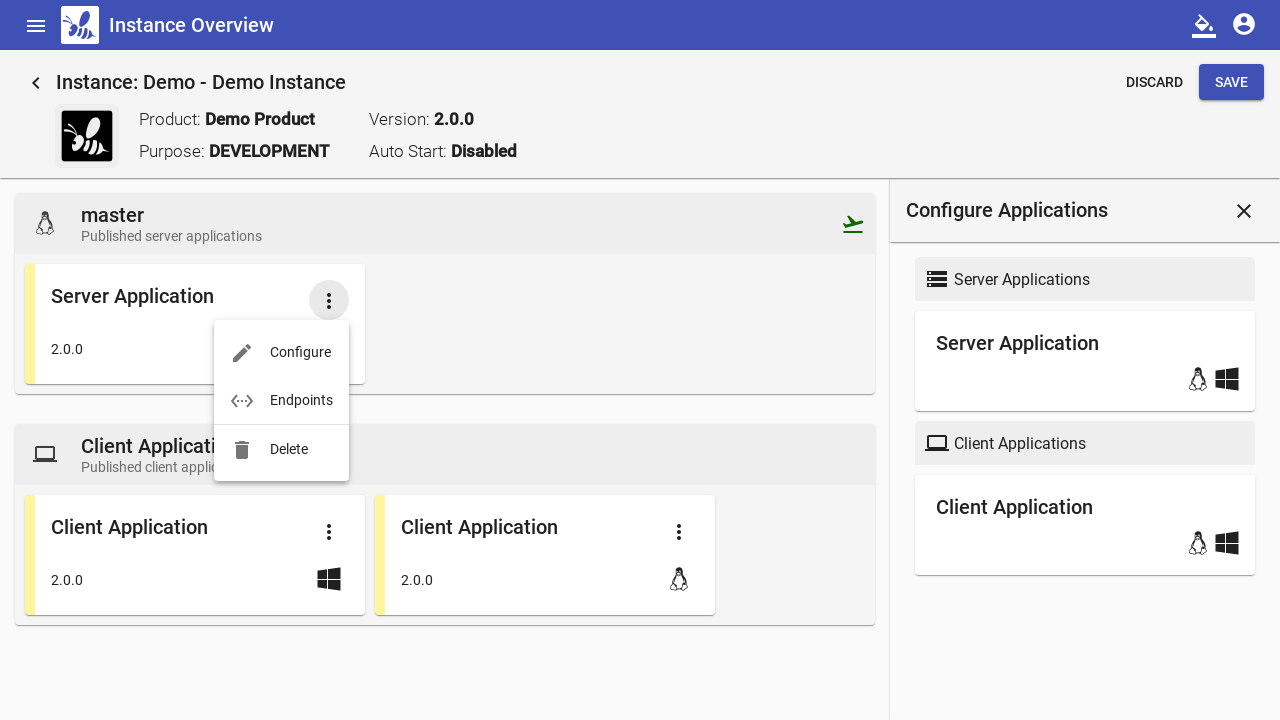
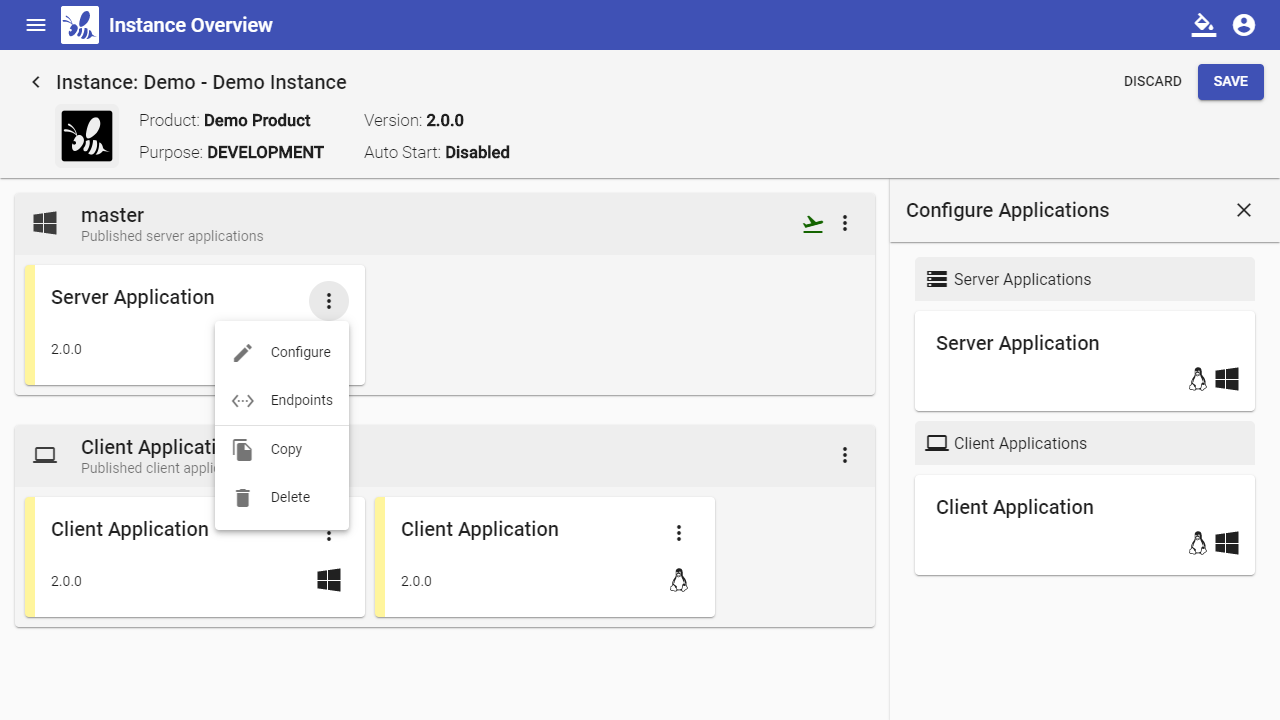
Copy & Paste improvements
* Saveguard against broken data
 * Saveguard against paste on wrong node type
 * Documentation of copy & paste and export & import
 * UI Test to at least show the new paste menu for docs.

Request: DCS-1013

diff --git a/ui/webapp/src/app/modules/instance/components/instance-node-card/instance-node-card.component.ts b/ui/webapp/src/app/modules/instance/components/instance-node-card/instance-node-card.component.ts
@@ -4,11 +4,14 @@ import { format } from 'date-fns';
 import { cloneDeep } from 'lodash';
 import { DragulaService } from 'ng2-dragula';
 import { Subscription } from 'rxjs';
+import { Logger, LoggingService } from 'src/app/modules/core/services/logging.service';
+import { MessageBoxMode } from 'src/app/modules/shared/components/messagebox/messagebox.component';
+import { MessageboxService } from 'src/app/modules/shared/services/messagebox.service';
 import { convert2String } from 'src/app/modules/shared/utils/version.utils';
 import { ApplicationGroup } from '../../../../models/application.model';
 import { CLIENT_NODE_NAME, EMPTY_APPLICATION_CONFIGURATION, EMPTY_INSTANCE_NODE_CONFIGURATION, EMPTY_PROCESS_CONTROL_CONFIG } from '../../../../models/consts';
 import { EventWithCallback } from '../../../../models/event';
-import { ApplicationConfiguration, ApplicationDto, InstanceNodeConfiguration, InstanceNodeConfigurationDto, MinionDto, MinionStatusDto } from '../../../../models/gen.dtos';
+import { ApplicationConfiguration, ApplicationDto, ApplicationType, InstanceNodeConfiguration, InstanceNodeConfigurationDto, MinionDto, MinionStatusDto } from '../../../../models/gen.dtos';
 import { EditAppConfigContext, ProcessConfigDto } from '../../../../models/process.model';
 import { getAppOs } from '../../../shared/utils/manifest.utils';
 import { ApplicationService } from '../../services/application.service';
@@ -24,6 +27,8 @@ export class InstanceNodeCardComponent implements OnInit, OnDestroy {
   private readonly VALID_DROP_ZONE_CLASS = 'instance-node-valid-drop-zone';
   private readonly INVALID_DROP_ZONE_CLASS = 'instance-node-invalid-drop-zone';
   private readonly CURRENT_DRAG_CONTAINER_CLASS = 'current-drag-container';
+
+  private log: Logger = this.loggingService.getLogger('InstanceNodeCardComponent');
 
   @Input() instanceGroupName: string;
   @Input() activatedInstanceTag: string;
@@ -58,6 +63,8 @@ export class InstanceNodeCardComponent implements OnInit, OnDestroy {
   constructor(
     private appService: ApplicationService,
     private dragulaService: DragulaService,
+    private mbService: MessageboxService,
+    private loggingService: LoggingService,
     ) {}
 
   ngOnInit() {
@@ -226,18 +233,26 @@ export class InstanceNodeCardComponent implements OnInit, OnDestroy {
     this.selectAppConfigEvent.emit(process);
   }
 
-  onPaste(){
-    console.log("Attempting to paste from clipboard");
-
+  onPaste() {
     const readClipboard = navigator.clipboard.readText().then(
      data => {
-        console.log("Pasted string: ", data);
-        var appConfig = JSON.parse(data) as ApplicationConfiguration;
+        let appConfig = null;
+        try {
+          appConfig = JSON.parse(data) as ApplicationConfiguration;
+        } catch (e) {
+          this.mbService.open({title: 'Invalid Data', message: 'The data in the clipboard cannot be interpreted as application', mode: MessageBoxMode.WARNING});
+          return;
+        }
 
         const productKey = this.processConfig.instance.product;
         const appKey = appConfig.application;
 
         this.appService.getDescriptor(this.instanceGroupName, productKey, appKey).subscribe(desc => {
+          if ((desc.type === ApplicationType.SERVER && this.isClientApplicationsNode()) || (desc.type === ApplicationType.CLIENT && !this.isClientApplicationsNode())) {
+            this.mbService.open({title: 'Wrong Type', message: 'Application cannot be pasted on this node.', mode: MessageBoxMode.INFO});
+            return;
+          }
+
           // Generate unique identifier
           this.appService.createUuid(this.instanceGroupName).subscribe(uid => {
 
@@ -255,7 +270,7 @@ export class InstanceNodeCardComponent implements OnInit, OnDestroy {
         });
       },
       data => {
-        console.error("Unable to paste from clipboard");
+        this.log.error('Unable to paste from clipboard');
       });
   }
 

diff --git a/ui/webapp/cypress/integration/docu.spec.js b/ui/webapp/cypress/integration/docu.spec.js
@@ -182,6 +182,13 @@ describe('Creates screenshots for the user documentation', () => {
     cy.waitUntilContentLoaded();
 
     cy.getApplicationConfigCard('master', 'Server Application').contains('more_vert').click();
+    cy.contains('button', 'Copy').click();
+    cy.getNodeCard('master').contains('mat-card-header', 'master').contains('button', 'more_vert').click();
+    cy.wait(250);
+    cy.screenshot('BDeploy_Paste_Application');
+    cy.contains('button', 'Paste').type('{esc}');
+
+    cy.getApplicationConfigCard('master', 'Server Application').contains('more_vert').click();
 
     // Process Configuration
     cy.get('button').contains('Configure').click();
